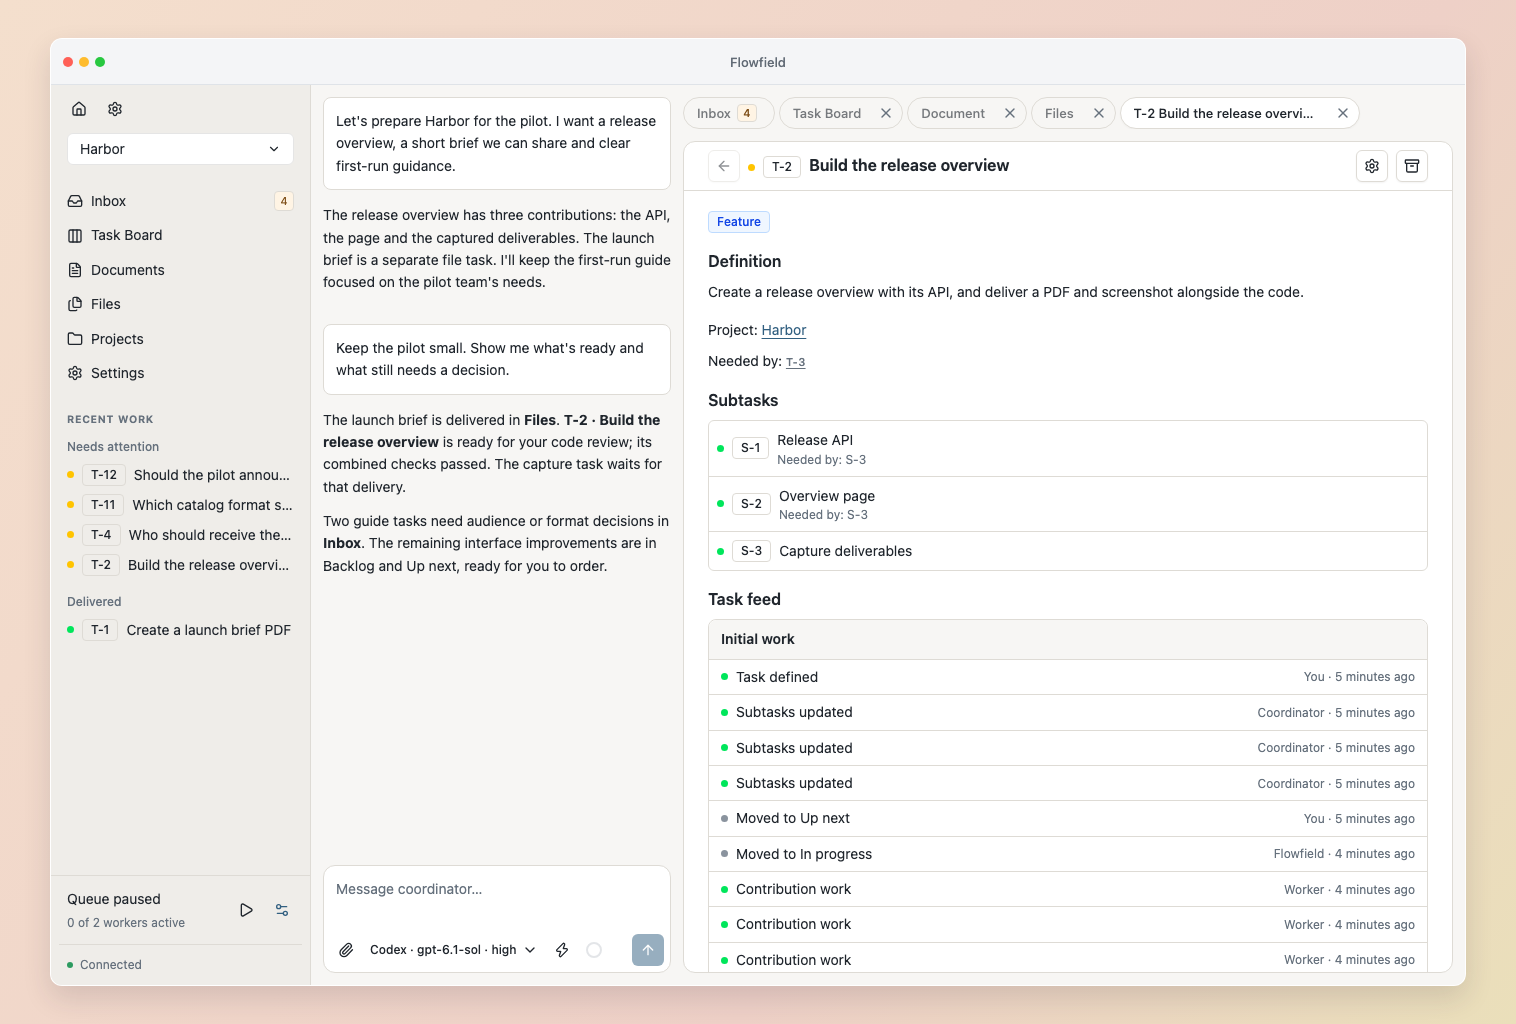
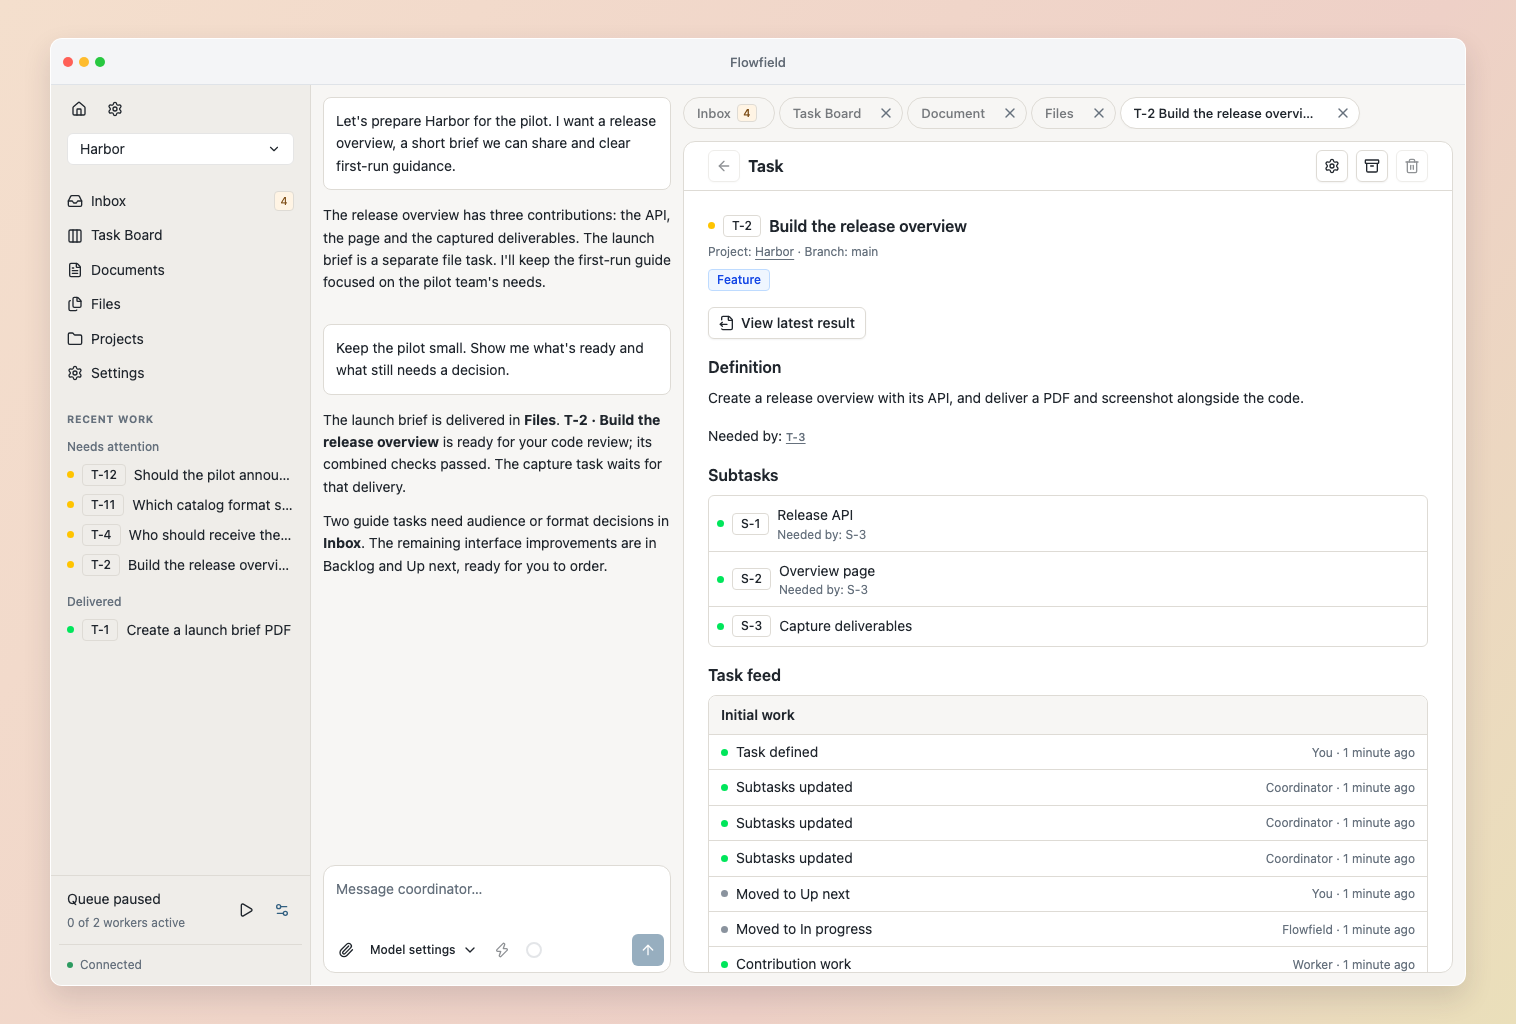
Align task details and prepare 0.8.0 documentation

diff --git a/web/src/TaskDetail.tsx b/web/src/TaskDetail.tsx
@@ -20,7 +20,7 @@ import { ReviewerSettings } from "./ReviewerSettings";
 import { AgentSettingsForm } from "./AgentSettings";
 import type { DirtyCallback } from "./retainedState";
 import { useEffect, useState } from "react";
-import { ContentStack, DetailSection } from "./DetailLayout";
+import { ContentStack, DetailHeading, DetailSection } from "./DetailLayout";
 import { TaskLabels } from "./TaskLabels";
 import { DetailHeader, DraftBadge } from "./Presentation";
 import { WorkIdentity } from "./WorkIdentity";
@@ -58,16 +58,7 @@ export function TaskDetail({
   return (
     <section className="editor task-detail">
       <DetailHeader
-        title={
-          <WorkIdentity
-            state={task.state}
-            itemKey={task.key}
-            keyBadge={
-              <DraftBadge publicationStatus={task.publication_status} />
-            }
-            title={task.title}
-          />
-        }
+        title="Task"
         close={close}
         closeLabel="Back"
         actions={
@@ -134,10 +125,20 @@ export function TaskDetail({
           </>
         }
       />
-      {(task.project_id || task.labels.length > 0) && (
-        <ContentStack className="task-summary">
-          {task.project_id && (
-            <p className="detail-metadata">
+      <ContentStack className="task-summary">
+        <DetailHeading
+          title={
+            <WorkIdentity
+              state={task.state}
+              itemKey={task.key}
+              keyBadge={
+                <DraftBadge publicationStatus={task.publication_status} />
+              }
+              title={task.title}
+            />
+          }
+          metadata={
+            task.project_id && (
               <>
                 Project:{" "}
                 <WorkspaceLink
@@ -152,13 +153,15 @@ export function TaskDetail({
                   <> · Branch: {task.publication.target_branch}</>
                 )}
               </>
-            </p>
-          )}
+            )
+          }
+        />
+        {task.labels.length > 0 && (
           <div className="task-header-badges" aria-label="Task labels">
             <TaskLabels ids={task.labels} />
           </div>
-        </ContentStack>
-      )}
+        )}
+      </ContentStack>
       {!settings && (
         <ContentStack space="section" className="task-context">
           {task.latest_result_id && (

diff --git a/web/e2e/task-deletion.spec.ts b/web/e2e/task-deletion.spec.ts
@@ -26,6 +26,8 @@ test("permanent deletion confirms exact task and removes it from the board", asy
   expect(response.ok()).toBe(true);
   const task = await response.json();
   await page.goto(`${base}/tasks/${task.key}`);
+  await expect(page.locator(".editor-heading h2")).toHaveText("Task");
+  await expect(page.locator(".task-summary h3")).toContainText(task.title);
   await expect(page.locator(".editor-heading .detail-metadata")).toHaveCount(0);
   await expect(page.locator(".task-summary .detail-metadata")).toContainText(
     "Project:",

diff --git a/web/src/RecordTitle.tsx b/web/src/RecordTitle.tsx
@@ -9,7 +9,10 @@ export function RecordTitle({ children }: { children: string }) {
       return match ? (
         <span key={index} className="whitespace-nowrap">
           {match[1]}{" "}
-          <Badge variant="outline" className="align-middle font-normal">
+          <Badge
+            variant="outline"
+            className="px-1 py-0 align-middle font-normal"
+          >
             <span className="sr-only">#</span>
             {match[2]}
           </Badge>

diff --git a/web/src/Presentation.tsx b/web/src/Presentation.tsx
@@ -74,7 +74,7 @@ export function DetailHeader({
         {closeLabel.startsWith("Back") && (
           <CloseControl label={closeLabel} close={close} />
         )}
-        <ContentStack space="tight" className="min-w-0 flex-1 basis-44">
+        <ContentStack space="tight" className="min-w-0 flex-1 basis-auto">
           <h2>{title}</h2>
           {metadata && <p className="detail-metadata">{metadata}</p>}
         </ContentStack>

diff --git a/CHANGELOG.md b/CHANGELOG.md
@@ -1,5 +1,28 @@
 # Changelog
 
+## 0.8.0
+
+### Features
+
+- Permanently delete unneeded tasks from the task header or CLI, with confirmation. Deletion removes their history, results, retained files and inspection copies while preserving delivered repository code. Active work and referenced evidence block deletion; interrupted cleanup resumes automatically.
+
+### Improvements
+
+- Open the latest saved result directly from a task. Task and result pages share a consistent title and destination layout; feedback names its exact result, and numbered feed references are easier to scan.
+- Review supporting files, review evidence and code changes together under Details, with fewer competing disclosures and clearer next actions.
+- Save worker model, capacity and startup preferences together. Available updates remain visible through indicators on Settings and its Updates tab.
+
+### Bug fixes
+
+- Keep Board and Inbox available during approval and review updates instead of failing with a database-lock error.
+- Keep preparation, validation and independent assessment in In progress, and reserve In review for human decisions and pending delivery. Show completed tasks consistently as Done.
+- Withdraw obsolete result actions while a correction is running, and prevent older review activity from moving the task back into review.
+- Preserve completed deliveries when the destination or settings change, without misleading destination warnings. Unfinished dependent work still checks whether the delivered code can be reused.
+
+### Upgrade
+
+Stop Flowfield and back up its data directory before updating. Existing 0.6.0 and 0.7.0 stores upgrade in place with a verified database recovery copy. The upgraded database requires this release or newer; returning to an older build requires its matching backup. See [storage and recovery](https://docs.flowfield.sh/storage#updating-and-recovery).
+
 ## 0.7.0
 
 ### Features

diff --git a/README.md b/README.md
@@ -34,7 +34,7 @@ Open [localhost:8765](http://127.0.0.1:8765), create a workspace and choose its 
 
 ## How does Flowfield work?
 
-Ask the Coordinator to organize work and maintain shared context. Each task owns a useful outcome, its history and delivery. Order Backlog and Up next on Task Board, edit documents and respond through Inbox while the same conversation stays beside the work.
+Ask the Coordinator to organize work and maintain shared context. Each task owns a useful outcome, its history and delivery. Order Backlog and Up next on Task Board, edit documents and respond through Inbox while the same conversation stays beside the work. Archive work to retain its history, or permanently delete an unneeded task and its retained files.
 
 **💬 Shape the idea**<br>Talk through the problem with the Coordinator. It turns agreed decisions into tasks while the work continues beside the conversation.
 
